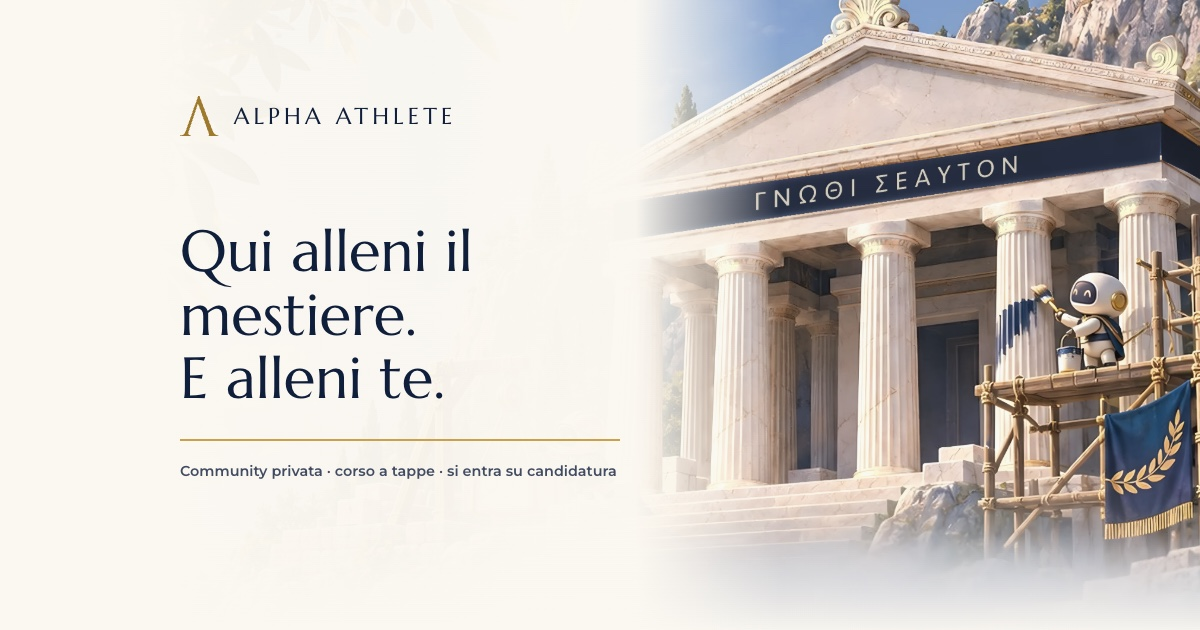
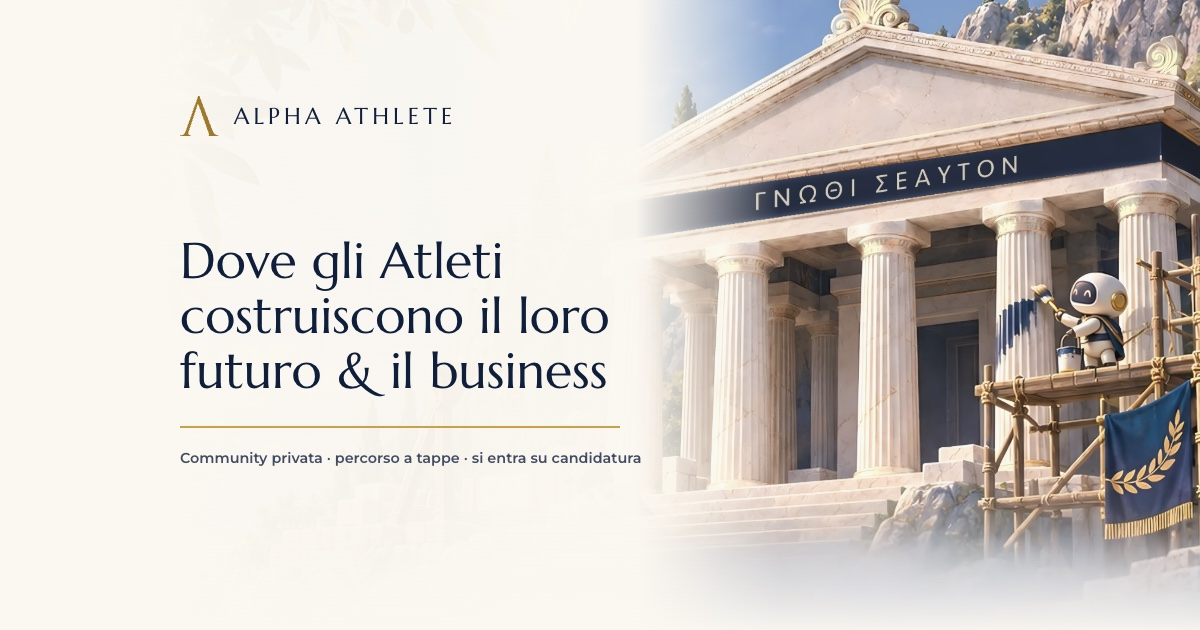
Anteprima dei link: titolo, descrizione e immagine col nuovo titolo della home

Changed region(s): [[0.1542, 0.3619, 0.5242, 0.6333], [0.1542, 0.6635, 0.5242, 0.754]]

diff --git a/src/config.ts b/src/config.ts
@@ -31,12 +31,12 @@ export const VERSIONE = new Date().toISOString().slice(0, 16).replace(/\D/g, '')
 
 /** Meta del sito (copy v2 §7). La home li usa tutti; le pagine di servizio hanno il loro <title> e, per il resto,
  *  questi. L'immagine per le anteprime dei link è public/assets/og-alpha-athlete.jpg (1200×630), fatta come chiede
- *  il copy v2 §7: Λ e nome, il claim, la riga piccola, il tempio a destra. Sorgente: _non-online/og/og.html. */
+ *  il copy v2 §7: Λ e nome, il claim, la riga piccola, il tempio a destra. Sorgente: grafiche/apertura.html?tipo=og (si rigenera con grafiche/genera.sh og-alpha). */
 export const META = {
   titolo: 'Alpha Athlete · Community per atlete e atleti del digitale',
-  descrizione: 'Community privata per atlete e atleti del digitale. Costruisci un mestiere da freelance in IT e AI, e lavori su di te. Corso a tappe, si entra su candidatura.',
-  ogTitolo: 'Qui alleni il mestiere. E alleni te.',
-  ogDescrizione: 'Alpha Athlete è una community privata con un corso a tappe, per atlete e atleti del digitale. Si entra con una candidatura scritta e un colloquio.',
+  descrizione: 'Community privata per atlete e atleti del digitale. Costruisci un mestiere da freelance AI, e lavori su di te. Percorso a tappe, si entra su candidatura.',
+  ogTitolo: 'Dove gli Atleti costruiscono il loro futuro & il business',
+  ogDescrizione: 'Alpha Athlete è una community privata con un percorso a tappe, per atlete e atleti del digitale. Si entra con una candidatura scritta e un colloquio.',
   ogImmagine: '/assets/og-alpha-athlete.jpg',
   ogImmagineAlt: 'Il tempio di Apollo a Delfi in costruzione, con i robot al lavoro e uno stendardo blu appeso al ponteggio. Sopra, il nome Alpha Athlete.',
 };
